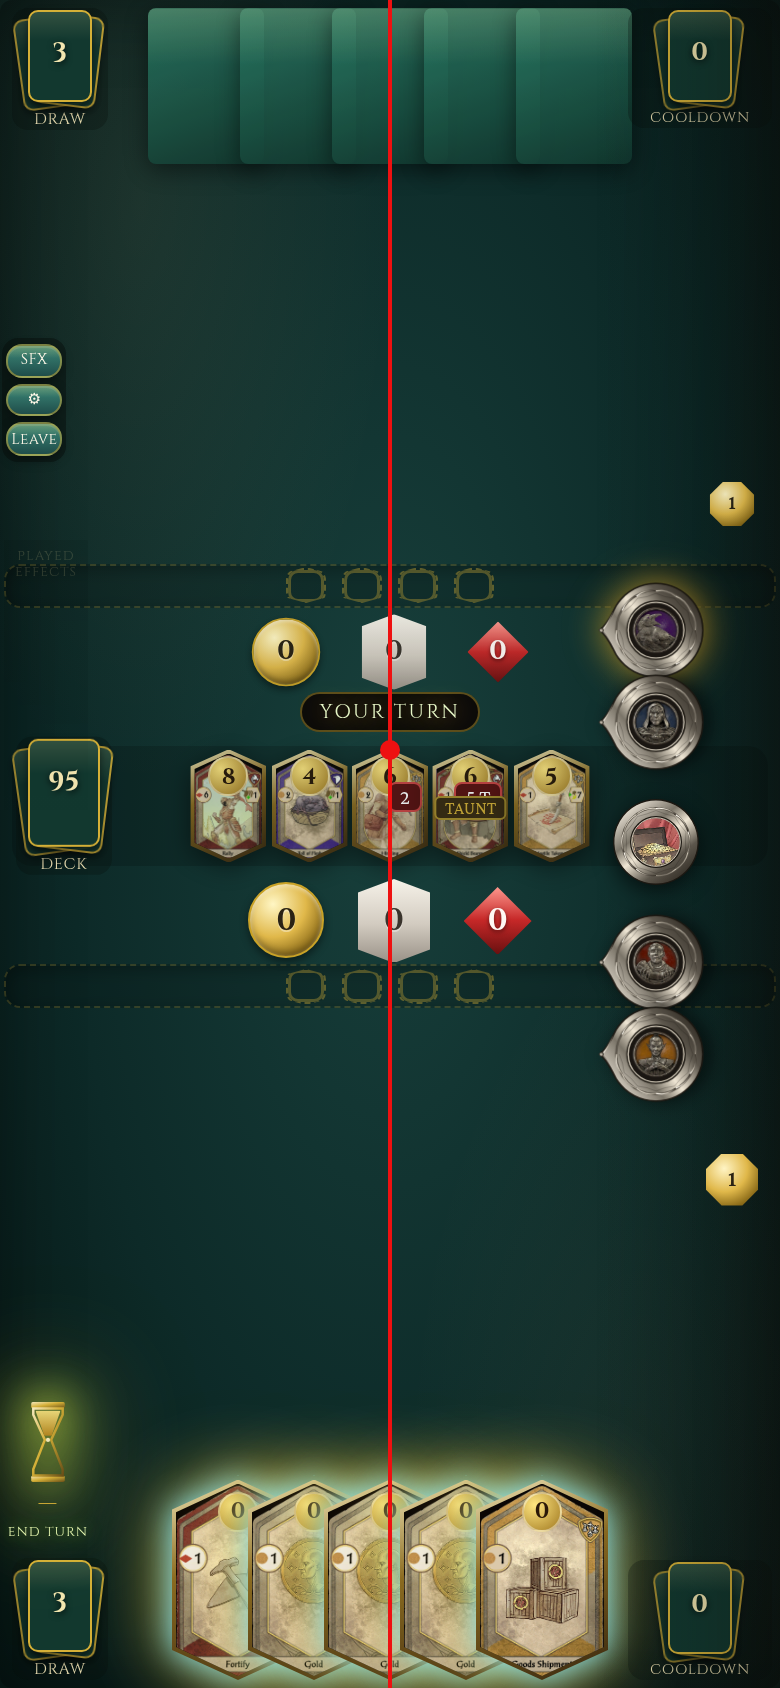
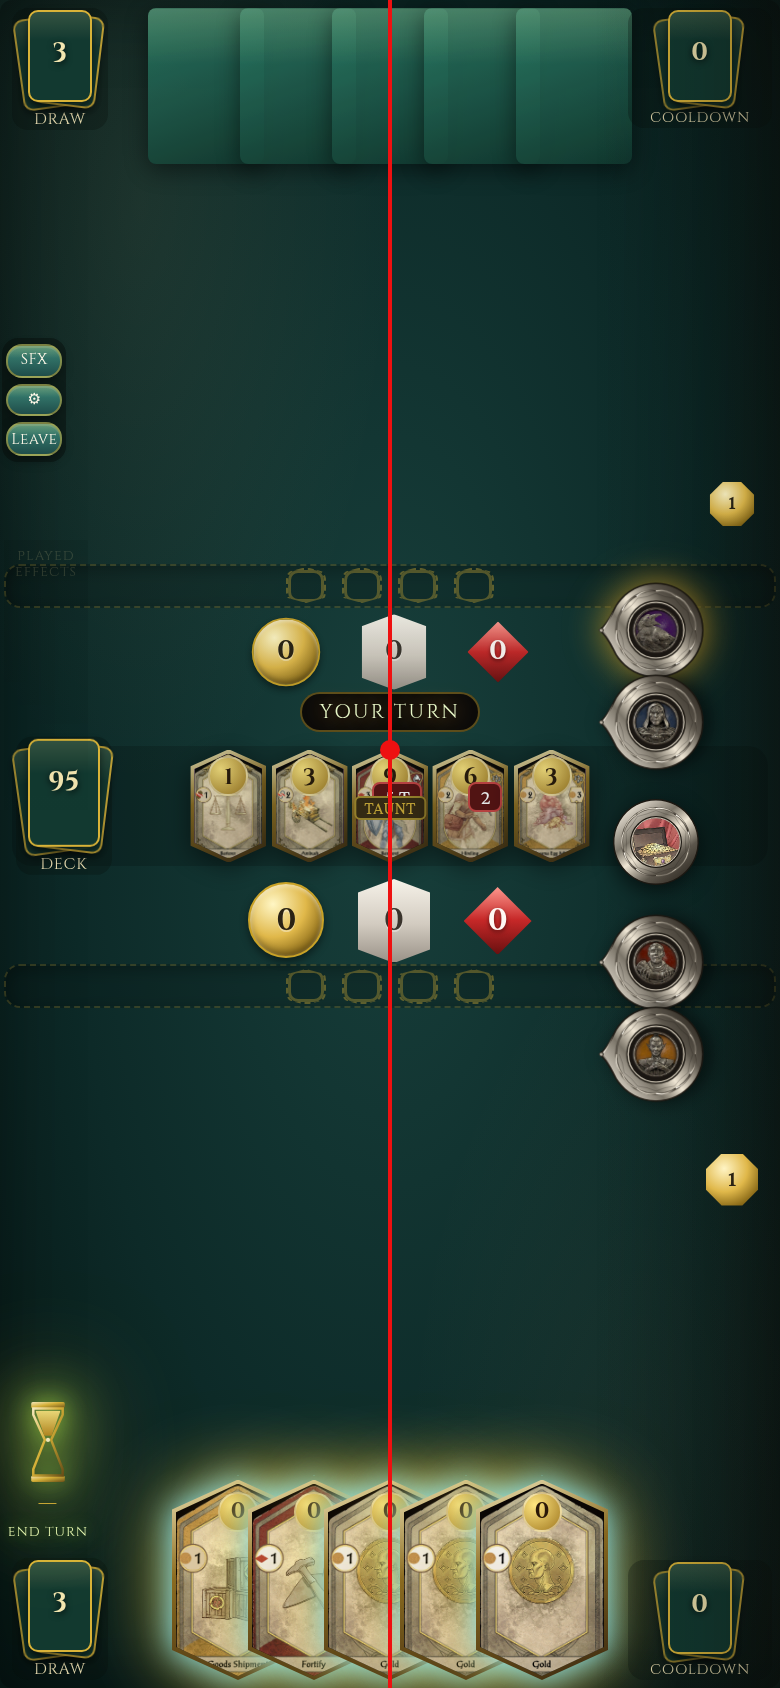
Stronger landscape zoom-out so 844x390 shots read unclipped.
Left DRAW/DECK/DRAW get a real felt gutter. Tavern hexes keep aspect
with air in the band. You-hand hex tips sit above the felt edge.
Portrait packing stays on the build 51 lock. Still ?v=52.

diff --git a/docs/css/board-pass.css b/docs/css/board-pass.css
@@ -1352,27 +1352,28 @@ body.is-landscape #match .patron-coin.mora .medallion-svg {
 
 /* ===================================================================
    Build 52 — LANDSCAPE ONLY. Do not copy these onto portrait.
-   Modest overall fit so tavern hexes and the you-hand hexes are fully
-   on-canvas on 844×390. Left DRAW / DECK / you-DRAW shift right just
-   enough that rotated card-backs + under-stack labels clear the left
-   edge (and iPhone landscape safe-area). Right COOLDOWNs stay right.
+   Stronger zoom-out so 844×390 review shots read as unclipped to a
+   human: clear left felt margin beside DRAW/DECK/DRAW, tavern hex
+   top/bottom tips inside the band, you-hand hex bottom tips above
+   the felt edge (room for gold glow). Right COOLDOWNs stay right.
    =================================================================== */
 
 body.is-landscape #match .felt-table {
-  padding: 2px 0 4px !important;
+  padding: 6px 0 16px !important;
   row-gap: 2px !important;
   gap: 2px 0 !important;
   grid-template-rows:
-    minmax(22px, 0.28fr)
+    20px
     24px
     44px
     16px
-    minmax(96px, 1.55fr)
+    minmax(118px, 1.85fr)
     44px
     24px
-    minmax(78px, 1.18fr) !important;
+    minmax(76px, 1.12fr) !important;
 }
 
+body.is-landscape #match .felt-tavern,
 body.is-landscape #match .felt-you-hand {
   min-height: 0 !important;
   height: auto !important;
@@ -1380,48 +1381,57 @@ body.is-landscape #match .felt-you-hand {
   overflow: visible !important;
 }
 
+body.is-landscape #match .tavern-zone {
+  padding: 4px 128px !important;
+  overflow: visible !important;
+  align-items: center !important;
+}
+
 body.is-landscape #match #hand-zone,
 body.is-landscape #match .you-fan {
   height: 100% !important;
   min-height: 0 !important;
-  align-items: flex-end !important;
+  align-items: center !important;
+  padding-bottom: 0 !important;
+  padding-top: 0 !important;
+  box-sizing: border-box !important;
 }
 
 body.is-landscape #match .tavern-zone .card {
-  width: min(92px, 10.8vw, calc((100% - 1.2rem) / 5.18)) !important;
+  width: min(58px, 6.8vw, calc((100% - 1.2rem) / 5.4)) !important;
   height: auto !important;
   aspect-ratio: 1 / 1.52 !important;
   min-height: 0 !important;
-  max-height: 88% !important;
+  max-height: none !important;
 }
 
 body.is-landscape #match #hand-zone .card,
 body.is-landscape #match #hand-zone button.card,
 body.is-landscape #match .you-fan .card {
-  width: min(58px, 6.8vw, calc((100% + 1rem) / 5.7)) !important;
+  width: min(36px, 4.3vw, calc((100% + 1rem) / 6.4)) !important;
   height: auto !important;
   aspect-ratio: 1 / 1.52 !important;
   min-height: 0 !important;
-  max-height: 88% !important;
+  max-height: none !important;
 }
 
 body.is-landscape #match .rival-fan .card,
 body.is-landscape #match #opp-hand-zone .card {
-  width: min(34px, 4vw, calc((100% + 0.8rem) / 6.6)) !important;
+  width: min(30px, 3.6vw, calc((100% + 0.8rem) / 6.8)) !important;
   min-height: 0 !important;
-  max-height: 90% !important;
+  max-height: 86% !important;
 }
 
-/* Left piles: inset from the physical left so stack art + DRAW/DECK
-   words sit fully on-canvas. Keep labels under the stacks. */
+/* Left piles: real felt gutter, not flush. Rotated backs + labels
+   must sit inside a visible margin (safe-area on notched phones). */
 body.is-landscape #match #pile-opp-draw,
 body.is-landscape #match #pile-you-draw,
 body.is-landscape #match #pile-tavern-draw {
-  left: max(18px, calc(env(safe-area-inset-left, 0px) + 12px)) !important;
+  left: max(36px, calc(env(safe-area-inset-left, 0px) + 22px)) !important;
 }
 
 body.is-landscape #match .felt-hud-you {
-  left: max(10px, calc(env(safe-area-inset-left, 0px) + 6px)) !important;
+  left: max(28px, calc(env(safe-area-inset-left, 0px) + 16px)) !important;
 }
 
 /* Right COOLDOWNs stay on the right, fully visible (rail + safe-area). */
@@ -1440,14 +1450,8 @@ body.is-landscape #match #pile-you-cd .pile-stack {
   margin: 0 auto !important;
 }
 
-body.is-landscape #match #pile-opp-draw { top: 6px !important; }
-body.is-landscape #match #pile-you-draw { bottom: 6px !important; }
-body.is-landscape #match #pile-opp-cd { top: 6px !important; }
-body.is-landscape #match #pile-you-cd { bottom: 6px !important; }
-
-body.is-landscape #match #hand-zone,
-body.is-landscape #match .you-fan {
-  padding-bottom: 4px !important;
-  box-sizing: border-box !important;
-}
+body.is-landscape #match #pile-opp-draw { top: 8px !important; }
+body.is-landscape #match #pile-you-draw { bottom: 12px !important; }
+body.is-landscape #match #pile-opp-cd { top: 8px !important; }
+body.is-landscape #match #pile-you-cd { bottom: 12px !important; }
 

diff --git a/web/css/board-pass.css b/web/css/board-pass.css
@@ -1352,27 +1352,28 @@ body.is-landscape #match .patron-coin.mora .medallion-svg {
 
 /* ===================================================================
    Build 52 — LANDSCAPE ONLY. Do not copy these onto portrait.
-   Modest overall fit so tavern hexes and the you-hand hexes are fully
-   on-canvas on 844×390. Left DRAW / DECK / you-DRAW shift right just
-   enough that rotated card-backs + under-stack labels clear the left
-   edge (and iPhone landscape safe-area). Right COOLDOWNs stay right.
+   Stronger zoom-out so 844×390 review shots read as unclipped to a
+   human: clear left felt margin beside DRAW/DECK/DRAW, tavern hex
+   top/bottom tips inside the band, you-hand hex bottom tips above
+   the felt edge (room for gold glow). Right COOLDOWNs stay right.
    =================================================================== */
 
 body.is-landscape #match .felt-table {
-  padding: 2px 0 4px !important;
+  padding: 6px 0 16px !important;
   row-gap: 2px !important;
   gap: 2px 0 !important;
   grid-template-rows:
-    minmax(22px, 0.28fr)
+    20px
     24px
     44px
     16px
-    minmax(96px, 1.55fr)
+    minmax(118px, 1.85fr)
     44px
     24px
-    minmax(78px, 1.18fr) !important;
+    minmax(76px, 1.12fr) !important;
 }
 
+body.is-landscape #match .felt-tavern,
 body.is-landscape #match .felt-you-hand {
   min-height: 0 !important;
   height: auto !important;
@@ -1380,48 +1381,57 @@ body.is-landscape #match .felt-you-hand {
   overflow: visible !important;
 }
 
+body.is-landscape #match .tavern-zone {
+  padding: 4px 128px !important;
+  overflow: visible !important;
+  align-items: center !important;
+}
+
 body.is-landscape #match #hand-zone,
 body.is-landscape #match .you-fan {
   height: 100% !important;
   min-height: 0 !important;
-  align-items: flex-end !important;
+  align-items: center !important;
+  padding-bottom: 0 !important;
+  padding-top: 0 !important;
+  box-sizing: border-box !important;
 }
 
 body.is-landscape #match .tavern-zone .card {
-  width: min(92px, 10.8vw, calc((100% - 1.2rem) / 5.18)) !important;
+  width: min(58px, 6.8vw, calc((100% - 1.2rem) / 5.4)) !important;
   height: auto !important;
   aspect-ratio: 1 / 1.52 !important;
   min-height: 0 !important;
-  max-height: 88% !important;
+  max-height: none !important;
 }
 
 body.is-landscape #match #hand-zone .card,
 body.is-landscape #match #hand-zone button.card,
 body.is-landscape #match .you-fan .card {
-  width: min(58px, 6.8vw, calc((100% + 1rem) / 5.7)) !important;
+  width: min(36px, 4.3vw, calc((100% + 1rem) / 6.4)) !important;
   height: auto !important;
   aspect-ratio: 1 / 1.52 !important;
   min-height: 0 !important;
-  max-height: 88% !important;
+  max-height: none !important;
 }
 
 body.is-landscape #match .rival-fan .card,
 body.is-landscape #match #opp-hand-zone .card {
-  width: min(34px, 4vw, calc((100% + 0.8rem) / 6.6)) !important;
+  width: min(30px, 3.6vw, calc((100% + 0.8rem) / 6.8)) !important;
   min-height: 0 !important;
-  max-height: 90% !important;
+  max-height: 86% !important;
 }
 
-/* Left piles: inset from the physical left so stack art + DRAW/DECK
-   words sit fully on-canvas. Keep labels under the stacks. */
+/* Left piles: real felt gutter, not flush. Rotated backs + labels
+   must sit inside a visible margin (safe-area on notched phones). */
 body.is-landscape #match #pile-opp-draw,
 body.is-landscape #match #pile-you-draw,
 body.is-landscape #match #pile-tavern-draw {
-  left: max(18px, calc(env(safe-area-inset-left, 0px) + 12px)) !important;
+  left: max(36px, calc(env(safe-area-inset-left, 0px) + 22px)) !important;
 }
 
 body.is-landscape #match .felt-hud-you {
-  left: max(10px, calc(env(safe-area-inset-left, 0px) + 6px)) !important;
+  left: max(28px, calc(env(safe-area-inset-left, 0px) + 16px)) !important;
 }
 
 /* Right COOLDOWNs stay on the right, fully visible (rail + safe-area). */
@@ -1440,14 +1450,8 @@ body.is-landscape #match #pile-you-cd .pile-stack {
   margin: 0 auto !important;
 }
 
-body.is-landscape #match #pile-opp-draw { top: 6px !important; }
-body.is-landscape #match #pile-you-draw { bottom: 6px !important; }
-body.is-landscape #match #pile-opp-cd { top: 6px !important; }
-body.is-landscape #match #pile-you-cd { bottom: 6px !important; }
-
-body.is-landscape #match #hand-zone,
-body.is-landscape #match .you-fan {
-  padding-bottom: 4px !important;
-  box-sizing: border-box !important;
-}
+body.is-landscape #match #pile-opp-draw { top: 8px !important; }
+body.is-landscape #match #pile-you-draw { bottom: 12px !important; }
+body.is-landscape #match #pile-opp-cd { top: 8px !important; }
+body.is-landscape #match #pile-you-cd { bottom: 12px !important; }
 

diff --git a/docs/js/app.js b/docs/js/app.js
@@ -1392,7 +1392,7 @@ function layoutFan(container, rival = false) {
   const landscape = document.body.classList.contains('is-landscape');
   const first = cards[0].getBoundingClientRect();
   const last = cards[n - 1].getBoundingClientRect();
-  const leftLimit = landscape ? 58 : 52;
+  const leftLimit = landscape ? 78 : 52;
   const rightLimit = landscape ? vw - 124 : vw - 76;
   if (first.left + dx < leftLimit) dx = leftLimit - first.left;
   if (last.right + dx > rightLimit) dx = Math.min(dx, rightLimit - last.right);
@@ -1412,7 +1412,7 @@ function layoutTavern() {
   const first = cards[0].getBoundingClientRect();
   const last = cards[cards.length - 1].getBoundingClientRect();
   const landscape = document.body.classList.contains('is-landscape');
-  const leftLimit = landscape ? 72 : 50;
+  const leftLimit = landscape ? 92 : 50;
   const rightLimit = landscape ? vw - 124 : vw - 82;
   if (first.left + dx < leftLimit) dx = leftLimit - first.left;
   if (last.right + dx > rightLimit) dx = Math.min(dx, rightLimit - last.right);

diff --git a/web/js/app.js b/web/js/app.js
@@ -1392,7 +1392,7 @@ function layoutFan(container, rival = false) {
   const landscape = document.body.classList.contains('is-landscape');
   const first = cards[0].getBoundingClientRect();
   const last = cards[n - 1].getBoundingClientRect();
-  const leftLimit = landscape ? 58 : 52;
+  const leftLimit = landscape ? 78 : 52;
   const rightLimit = landscape ? vw - 124 : vw - 76;
   if (first.left + dx < leftLimit) dx = leftLimit - first.left;
   if (last.right + dx > rightLimit) dx = Math.min(dx, rightLimit - last.right);
@@ -1412,7 +1412,7 @@ function layoutTavern() {
   const first = cards[0].getBoundingClientRect();
   const last = cards[cards.length - 1].getBoundingClientRect();
   const landscape = document.body.classList.contains('is-landscape');
-  const leftLimit = landscape ? 72 : 50;
+  const leftLimit = landscape ? 92 : 50;
   const rightLimit = landscape ? vw - 124 : vw - 82;
   if (first.left + dx < leftLimit) dx = leftLimit - first.left;
   if (last.right + dx > rightLimit) dx = Math.min(dx, rightLimit - last.right);

diff --git a/docs/review/board-pr28/README.md b/docs/review/board-pr28/README.md
@@ -1,19 +1,17 @@
 # Board PR #28 review shots (build 52)
 
-Ivan landscape follow-up on build 51 / PR #26. Puppeteer 390×844 + 844×390. Portrait packing locked. All layout-fb overlap hits: false.
+ToTs follow-up: stronger landscape zoom-out + left inset. Puppeteer 390×844 + 844×390. Portrait packing locked to build 51. All layout-fb overlap hits: false.
 
-Landscape: modest zoom-out so tavern hexes (cardH **85.8px**, y 129–215) and you-hand hexes (y 311–382, vh 390) sit fully on-canvas. Left opp DRAW / tavern DECK / you DRAW inset to **18px** (art+label minX **15.42** > 0). Right COOLDOWNs stay right (gap **128px**, maxRight 716 < 844). DECK still left of the tavern at band mid (dy **0**). Tavern/hand mid dx **−0.01px**.
+Landscape (human-readable, not just bbox>0): DRAW/DECK/DRAW sit in a **clear felt gutter** (container left **36px**, art minX **33.42**). Tavern hexes keep aspect (cardH **87.2px**) with air to both HUDs (opp **35.4px**, you **17.4px**). You-hand hex bottom tips sit above the felt edge (maxBottom **375.36**, vh 390). DECK still left of the tavern at band mid (dy **0**). Right COOLDOWNs stay right.
 
-Portrait: unchanged vs build 51 — tavern mid dx **0px**, hand mid dx **0px**, pendant face Δx **0.02px**, patron col X **328**, middle-patron gap **33.11px**, Treasury face **24.63×24.63**, DRAW left **6px**, hudTop **168.8**, DECK dy **−0.01px**.
+Portrait: unchanged vs build 51 — tavern/hand mid dx **0**, pendant Δx **0.02**, patron col X **328**, Treasury **24.63×24.63**, DRAW left **6**, hudTop **168.8**.
 
-| Check | After (build 52) |
+| Check | After (build 52, ToTs fix) |
 |---|---|
-| Portrait felt (locked) | after-portrait-390x844.png |
-| Portrait tavern midline | after-portrait-tavern-center.png |
-| Portrait hand midline | after-portrait-hand-center.png |
 | Landscape felt | after-landscape-844x390.png |
-| Landscape left piles on-canvas | after-landscape-left-piles.png |
-| Landscape hand hexes full | after-landscape-hand-hexes.png |
-| Landscape tavern midline | after-landscape-tavern-center.png |
+| Landscape left piles + gutter | after-landscape-left-piles.png |
+| Landscape tavern hex tips | after-landscape-tavern-hexes.png |
+| Landscape hand hex tips | after-landscape-hand-hexes.png |
+| Portrait felt (locked) | after-portrait-390x844.png |
 
-Gates: landscape tavern + hand hexes fully on-canvas; left pile art+labels left > 0; right CD art+labels on-canvas; DECK left of tavern and band-centered; portrait metrics match build 51; overlap hits from #15/#18/#19/#23/#24 stay false. Club files from main 51.
+Gates: left pile minX ≥18; hand tips ≤378; tavern air vs HUD; DECK band-centered; portrait metrics match build 51; overlap hits from #15/#18/#19/#23/#24 stay false. Club files from main 51.

diff --git a/STATUS.md b/STATUS.md
@@ -1,6 +1,6 @@
 # Status
 
-**2026-09-15 (build 52):** Board/felt **landscape only**. Modest zoom-out so tavern hexes and the you-hand hexes sit fully on an 844×390 felt. Left opp DRAW / tavern DECK / you DRAW shift right just enough that stack art **and** the words under each are fully on-canvas (safe-area aware). Right COOLDOWNs stay right and fully visible. DECK still left of the tavern at band mid. Portrait packing from build 51 is locked (layout-fb / center / corner / patron rules unchanged). Card backs, Treasury 1:1 circle, gold glow, hold-inspect, and layout-fb overlap gates stay. Club hub / store / collection / economy / music / auth / voice / club-chrome untouched. `?v=52`.
+**2026-09-15 (build 52):** Board/felt **landscape only**. Stronger zoom-out so 844×390 review shots read unclipped: left DRAW / DECK / DRAW sit in a clear felt gutter (not flush); tavern hex top/bottom tips sit inside the band; you-hand hex bottom tips sit above the felt edge (glow room). DECK still left of the tavern at band mid. Right COOLDOWNs stay right. Portrait packing from build 51 is locked. Card backs, Treasury 1:1 circle, gold glow, hold-inspect, and layout-fb overlap gates stay. Club hub / store / collection / economy / music / auth / voice / club-chrome untouched. `?v=52`.
 
 **2026-09-14 (build 51):** Board/felt only — Ivan follow-up on 50. Patron column shifts a bit left; vertical gaps so the middle pendant reads as a full circle (centers stay colinear; pewter seated; Treasury/Mora tipless **1:1 circle**, not a horizontal oval). Tavern DECK sits to the left of the tavern cards at the tavern band’s vertical center — opp DRAW stays top-left, you DRAW bottom-left, COOLDOWNs right corners. Deck / draw / cooldown piles show `assets/ui/card-back.svg` again. Stray top-of-felt gold orbs stay gone; playable-card / End Turn / hand / combo gold glow is kept. Layout-fb overlap gates from board #15/#18/#19/#23/#24 stay green. Club hub / store / collection / economy / music / auth / voice / club-chrome untouched. `?v=51`.
 
